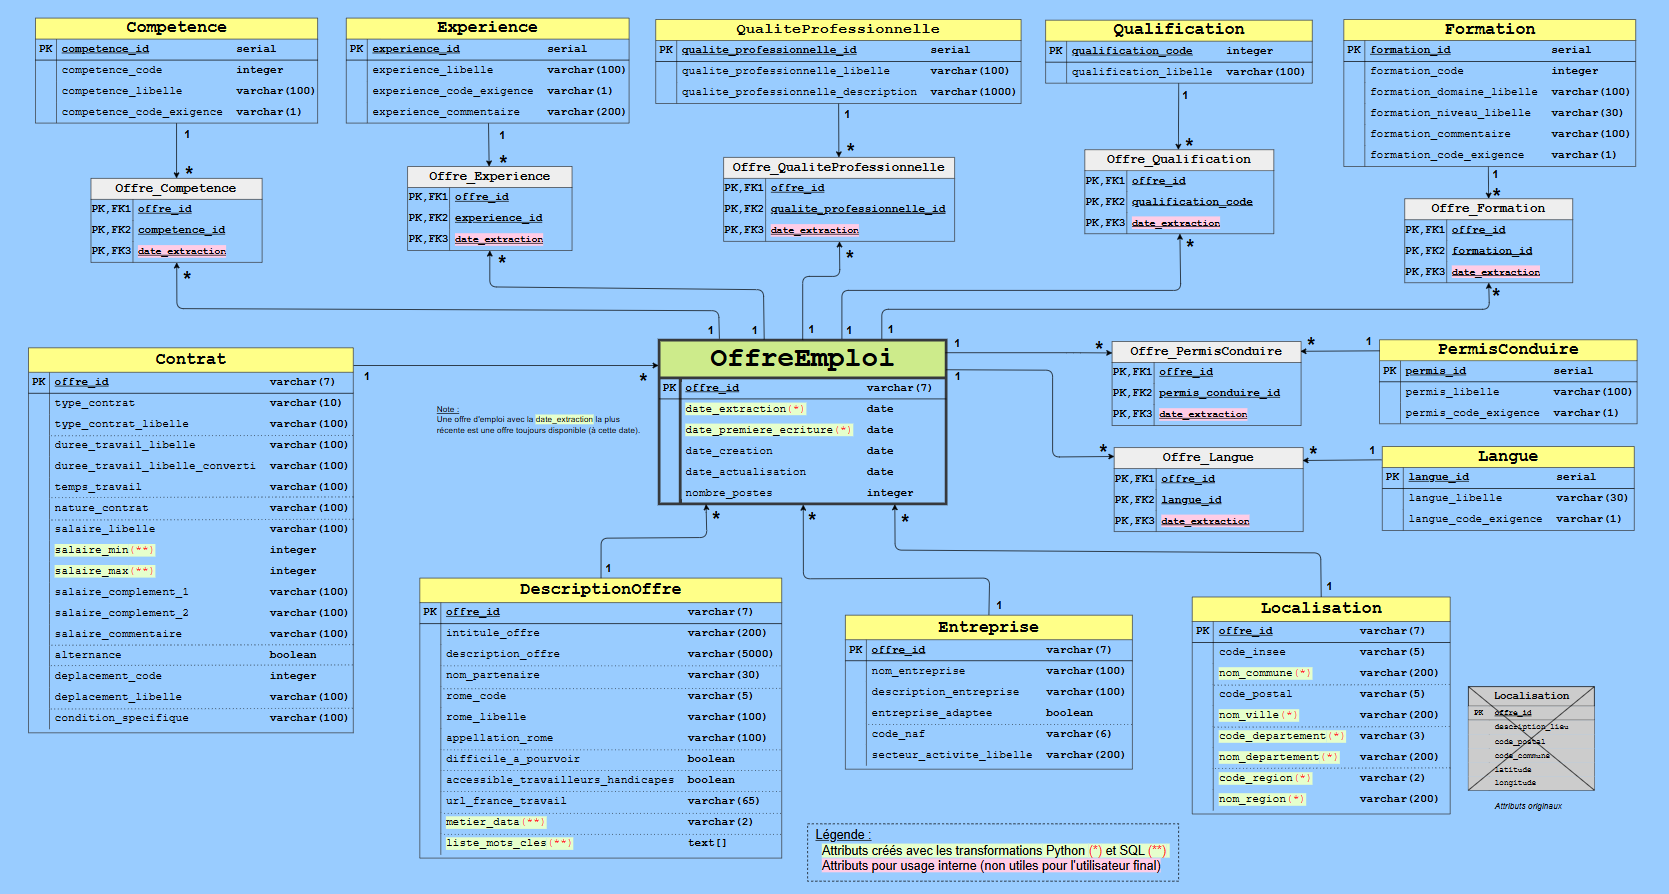
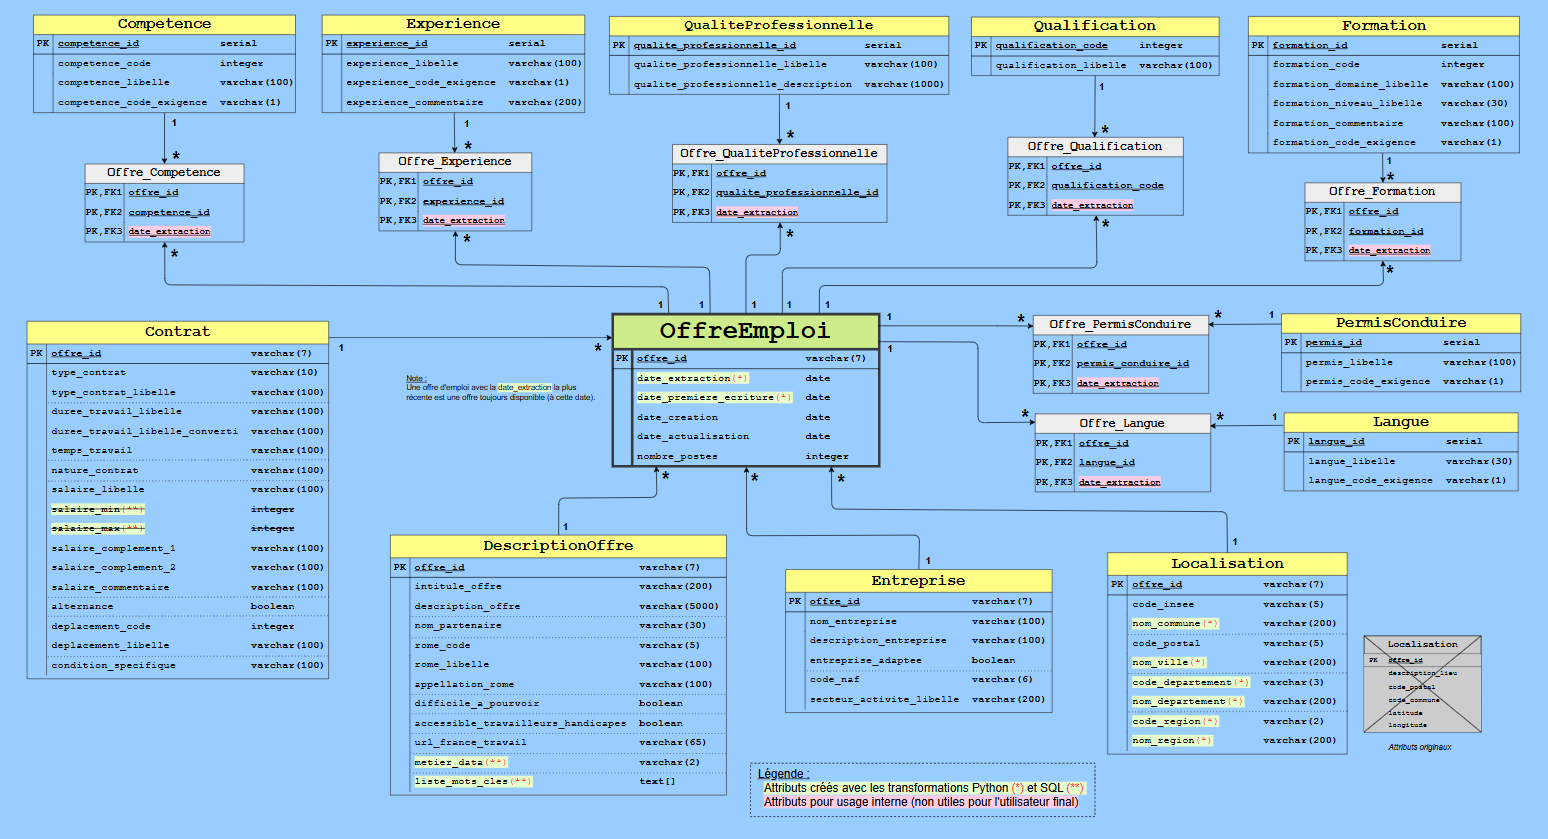
suppression de la transformation pour avoir les salaires min et max car malheureusement pas fiable à 100% (update README, DAG2, drawio), renommage quelques fichiers sql

diff --git a/airflow/dags/dag_2_write_to_db.py b/airflow/dags/dag_2_write_to_db.py
@@ -1331,37 +1331,39 @@ with DAG(
 
     with TaskGroup(group_id="INSERT_INTO_TABLES_WITHOUT_JUNCTION") as without_junction:
         """ "INSERT INTO" pour les tables qui n'ont pas de tables de liaison """
-        insert_into_offreemploi(SPLIT_JSONS_DIR, "offreemploi.json")
-        insert_into_contrat(SPLIT_JSONS_DIR, "contrat.json")
-        insert_into_entreprise(SPLIT_JSONS_DIR, "entreprise.json")
-        insert_into_localisation(SPLIT_JSONS_DIR, "localisation.json")
-        insert_into_description_offre(SPLIT_JSONS_DIR, "descriptionoffre.json")
+        i1 = insert_into_offreemploi(SPLIT_JSONS_DIR, "offreemploi.json")
+        i2 = insert_into_contrat(SPLIT_JSONS_DIR, "contrat.json")
+        i3 = insert_into_entreprise(SPLIT_JSONS_DIR, "entreprise.json")
+        i4 = insert_into_localisation(SPLIT_JSONS_DIR, "localisation.json")
+        i5 = insert_into_description_offre(SPLIT_JSONS_DIR, "descriptionoffre.json")
+
+        i1 >> [i2, i3, i4, i5]
 
     with TaskGroup(group_id="INSERT_INTO_TABLES_WITH_JUNCTION", tooltip="xxx") as with_junction:
         """ "INSERT INTO" pour les tables qui ont un lieu avec une table de liaison : tables de dimension d'abord, tables de liaison après """
-        i1 = insert_into_competence(SPLIT_JSONS_DIR, "competence.json")
-        i2 = insert_into_experience(SPLIT_JSONS_DIR, "experience.json")
-        i3 = insert_into_formation(SPLIT_JSONS_DIR, "formation.json")
-        i4 = insert_into_qualiteprofessionnelle(SPLIT_JSONS_DIR, "qualiteprofessionnelle.json")
-        i5 = insert_into_qualification(SPLIT_JSONS_DIR, "qualification.json")
-        i6 = insert_into_langue(SPLIT_JSONS_DIR, "langue.json")
-        i7 = insert_into_permisconduire(SPLIT_JSONS_DIR, "permisconduire.json")
+        j1 = insert_into_competence(SPLIT_JSONS_DIR, "competence.json")
+        j2 = insert_into_experience(SPLIT_JSONS_DIR, "experience.json")
+        j3 = insert_into_formation(SPLIT_JSONS_DIR, "formation.json")
+        j4 = insert_into_qualiteprofessionnelle(SPLIT_JSONS_DIR, "qualiteprofessionnelle.json")
+        j5 = insert_into_qualification(SPLIT_JSONS_DIR, "qualification.json")
+        j6 = insert_into_langue(SPLIT_JSONS_DIR, "langue.json")
+        j7 = insert_into_permisconduire(SPLIT_JSONS_DIR, "permisconduire.json")
 
-        j1 = insert_into_offre_competence(SPLIT_JSONS_DIR, "offre_competence.json")
-        j2 = insert_into_offre_experience(SPLIT_JSONS_DIR, "offre_experience.json")
-        j3 = insert_into_offre_formation(SPLIT_JSONS_DIR, "offre_formation.json")
-        j4 = insert_into_offre_qualiteprofessionnelle(SPLIT_JSONS_DIR, "offre_qualiteprofessionnelle.json")
-        j5 = insert_into_offre_qualification(SPLIT_JSONS_DIR, "offre_qualification.json")
-        j6 = insert_into_offre_langue(SPLIT_JSONS_DIR, "offre_langue.json")
-        j7 = insert_into_offre_permisconduire(SPLIT_JSONS_DIR, "offre_permisconduire.json")
+        k1 = insert_into_offre_competence(SPLIT_JSONS_DIR, "offre_competence.json")
+        k2 = insert_into_offre_experience(SPLIT_JSONS_DIR, "offre_experience.json")
+        k3 = insert_into_offre_formation(SPLIT_JSONS_DIR, "offre_formation.json")
+        k4 = insert_into_offre_qualiteprofessionnelle(SPLIT_JSONS_DIR, "offre_qualiteprofessionnelle.json")
+        k5 = insert_into_offre_qualification(SPLIT_JSONS_DIR, "offre_qualification.json")
+        k6 = insert_into_offre_langue(SPLIT_JSONS_DIR, "offre_langue.json")
+        k7 = insert_into_offre_permisconduire(SPLIT_JSONS_DIR, "offre_permisconduire.json")
 
-        i1 >> j1
-        i2 >> j2
-        i3 >> j3
-        i4 >> j4
-        i5 >> j5
-        i6 >> j6
-        i7 >> j7
+        j1 >> k1
+        j2 >> k2
+        j3 >> k3
+        j4 >> k4
+        j5 >> k5
+        j6 >> k6
+        j7 >> k7
 
     with TaskGroup(group_id="TRANSFORMATIONS") as transformations:
         """
@@ -1371,35 +1373,35 @@ with DAG(
 
         t1 = SQLExecuteQueryOperator(
             conn_id=conn_id,
-            task_id="update_descriptionoffre_metier_data_DE",
-            sql=os.path.join("sql", "transformation_1_update__table_descriptionoffre__column__metier_data__DE.sql"),
+            task_id="add_attribute__metier_data_DE",
+            sql=os.path.join("sql", "transformations", "1_update__descriptionoffre__metier_data__DE.sql"),
         )
 
         t2 = SQLExecuteQueryOperator(
             conn_id=conn_id,
-            task_id="update_descriptionoffre_metier_data_DA",
-            sql=os.path.join("sql", "transformation_2_update__table_descriptionoffre__column__metier_data__DA.sql"),
+            task_id="add_attribute__metier_data_DA",
+            sql=os.path.join("sql", "transformations", "2_update__descriptionoffre__metier_data__DA.sql"),
         )
 
         t3 = SQLExecuteQueryOperator(
             conn_id=conn_id,
-            task_id="update_descriptionoffre_metier_data_DS",
-            sql=os.path.join("sql", "transformation_3_update__table_descriptionoffre__column__metier_data__DS.sql"),
+            task_id="add_attribute__metier_data_DS",
+            sql=os.path.join("sql", "transformations", "3_update__descriptionoffre__metier_data__DS.sql"),
         )
 
-        t4 = SQLExecuteQueryOperator(
-            conn_id=conn_id,
-            task_id="update_contrat_salaires_min_max",
-            sql=os.path.join("sql", "transformation_4_update__table_contrat__columns__salaire_min__salaire_max.sql"),
-        )
+        # t4 = SQLExecuteQueryOperator(  # non retenu car risque d'erreurs dans les salaires min et max récupérés
+        #     conn_id=conn_id,
+        #     task_id="add_attribute__salaires_min_max",
+        #     sql=os.path.join("sql", "transformations", "update__table_contrat__salaire_min__salaire_max.sql"),
+        # )
 
         t5 = SQLExecuteQueryOperator(
             conn_id=conn_id,
-            task_id="update_descriptionoffre_column_liste_mots_cles",
-            sql=os.path.join("sql", "transformation_5_update__table_descriptionoffre__column__liste_mots_cles.sql"),
+            task_id="add_attribute__liste_mots_cles",
+            sql=os.path.join("sql", "transformations", "4_update__descriptionoffre__liste_mots_cles.sql"),
         )
 
         [t1, t2, t3] >> t5
-        t4
+        # t4
 
     setup >> without_junction >> with_junction >> transformations

diff --git a/README.md b/README.md
@@ -355,15 +355,27 @@
 
 ### Transformations des données en aval (côté SQL)
 
-- Ces transformations sont faites dans le `DAG 2`, faites via des requêtes SQL et effectuées en aval de l'écriture dans la base Postgres :
+- Ces transformations sont effectuées dans le `DAG 2`, faites via des requêtes `SQL` et effectuées en aval de l'écriture dans la base Postgres :
 
-  - pour créer et écrire l'attribut `metier_data` : pour chaque offre, on comparera l'attribut `intitule_offre` avec des regex afin de déterminer s'il s'agit d'une offre pour un `Data Engineer`, un `Data Analyst`, ou un `Data Scientist`.
+  - Pour créer et écrire l'attribut `metier_data` :
+
+    - Pour chaque offre, on comparera l'attribut `intitule_offre` avec des regex afin de déterminer s'il s'agit d'une offre pour un `Data Engineer`, un `Data Analyst`, ou un `Data Scientist`.
 
     - [détails ici](readme_files/APPENDIX.md#attribut-metier_data)
 
-  - pour créer et écrire les attributs `salaire_min` et `salaire_max` en fonction d'un algorithme expliqué
 
-    - [détails ici](readme_files/APPENDIX.md#attributs-salaire_min-et-salaire_max)
+  - Pour créer et écrire l'attribut `liste_mots_cles` :
+
+    - Pour chaque offre, si un mot-clé parmi la liste de strings prédéfinie ici[script](airflow/dags/sql/transformation_4_update__table_descriptionoffre__column__liste_mots_cles.sql), ce mot-clé sera ajouté dans l'attribut (qui est une liste).
+
+
+- Note :
+
+  - Une transformation a été créée pour récupérer les valeurs pour les attributs `salaire_min` et `salaire_max` à partir de l'attribut `salaire_libelle`, en fonction d'un algorithme expliqué [ici](readme_files/APPENDIX.md#attributs-salaire_min-et-salaire_max).
+
+  - Dans la plupart des cas, les salaires récupérés sont corrects, mais il reste parfois certaines incohérences, liés aux erreurs de saisie de la part des recruteurs dans l'attribut `salaire_libelle`, qui amènent à trop de cas d'erreurs à traiter.
+
+    - Par conséquent, cette transformation ne sera pas retenue.
 
 
 
@@ -673,7 +685,6 @@ TODO : screenshot de DAG 2 à la fin du projet
   - `update_descriptionoffre_metier_data_DE`
   - `update_descriptionoffre_metier_data_DA`
   - `update_descriptionoffre_metier_data_DS`
-  - `update_contrat_salaires_min_max`
 
 - puis :
 
@@ -696,7 +707,7 @@ TODO : screenshot de DAG 2 à la fin du projet
 
     - route `GET /offre/quelques_attributs_provenant_des_transformations` :
 
-      - prend en entrée l'identifiant de l'offre sur 7 digits, par défaut "*******" (si on laisse ce string par défaut, le script va récupérer une offre au hasard)
+      - prend en entrée l'identifiant de l'offre sur 7 digits, par défaut `*JOKER*` (si on laisse ce string par défaut, le script va récupérer une offre au hasard)
       - permet d'afficher quelques attributs issues des transformations (Python + SQL)
 
 
@@ -989,19 +1000,15 @@ TODO : refaire le fichier quand les DAGs seront figés
     - récupération de la localisation des offres d'emploi (noms et codes des villes, départements, départements et régions)
       - détails [ici](readme_files/APPENDIX.md#attributs-de-localisation-des-offres-noms-et-codes-des-villes-communes-départements-et-régions)
 
-    - algorithme pour avoir le salaire annuel min et max
-      - détails [ici](readme_files/APPENDIX.md#attributs-salaire_min-et-salaire_max)
-
-
 
 # 7. Evolutions possibles du projet
 
 - Le projet est fonctionnel, mais certaines features peuvent le rendre plus robustes ou plus intéressantes :
 
-  - `alert manager`
+  - `Alert Manager`
 
-  - `github actions`
+  - `Github Actions`
 
-  - `pytest`
+  - `Pytest`
 
-  - `dbt`
+  - `DBT`
